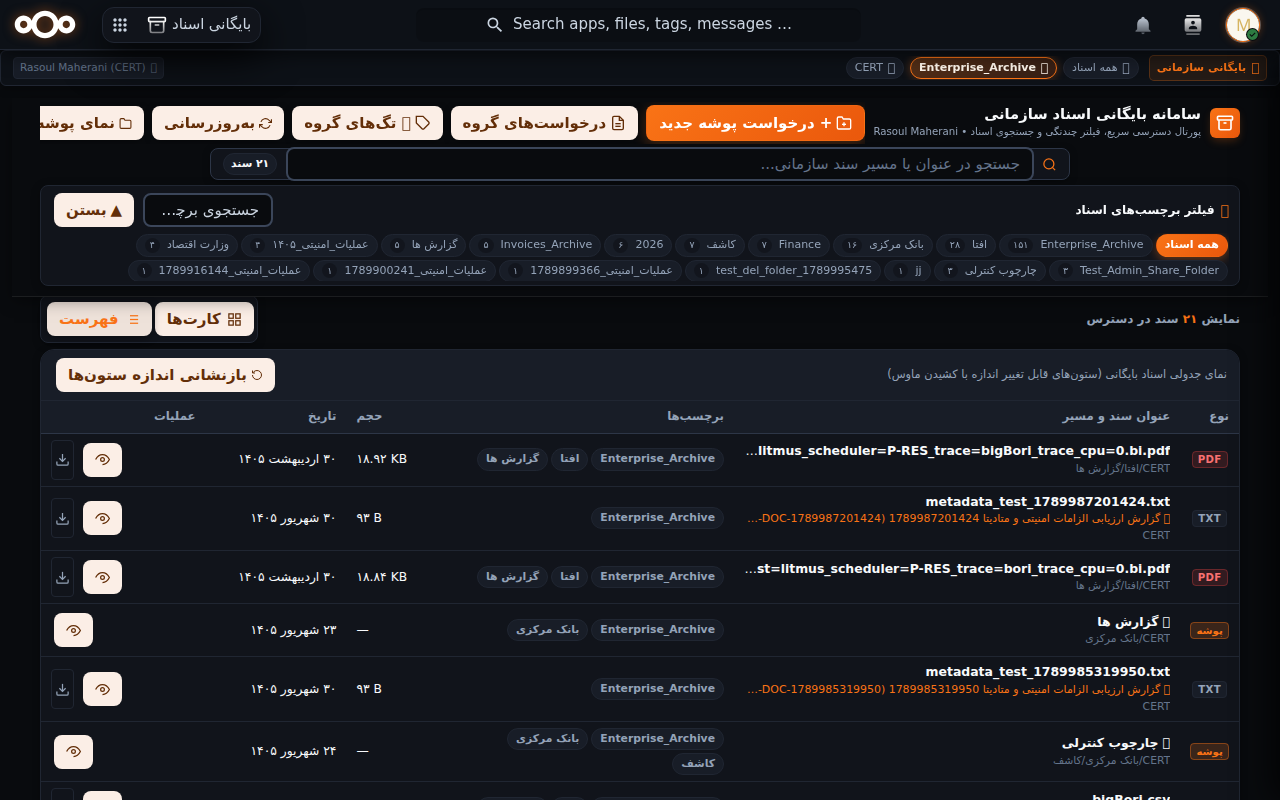
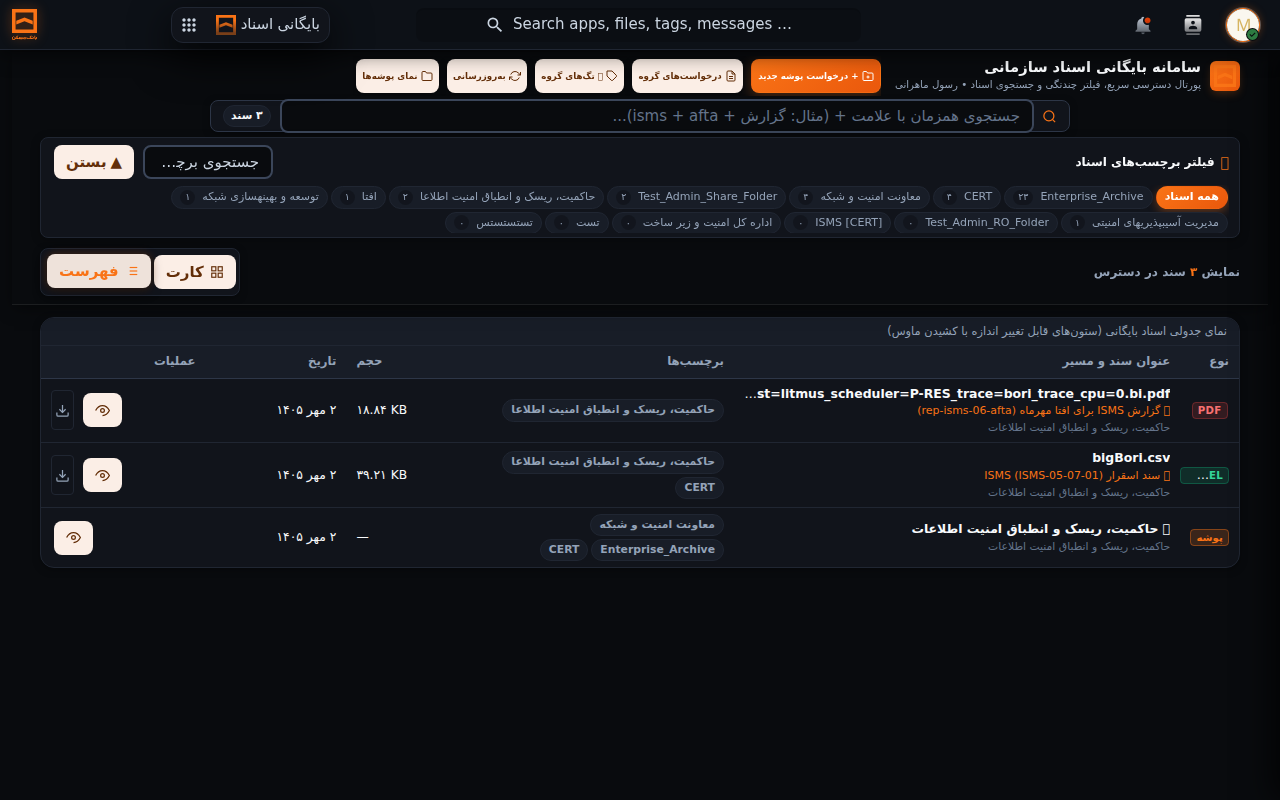
fix(portal): resolve card overlap under sticky top header section by setting sticky top offset to 0

diff --git a/apps/archive_autotag/css/archive_portal.css b/apps/archive_autotag/css/archive_portal.css
@@ -156,7 +156,7 @@ body[theme="dark"] :root,
 
 .ea-sticky-top-section {
   position: sticky;
-  top: 48px;
+  top: 0;
   z-index: 90;
   background: var(--ea-bg-canvas, #090b0e);
   margin-left: -28px;

diff --git a/tests/e2e/test_09_compact_ui_layout.py b/tests/e2e/test_09_compact_ui_layout.py
@@ -47,7 +47,7 @@ class TestCompactUILayout(unittest.TestCase):
         self.assertTrue(sticky_top.is_visible(), "Sticky top section should be visible")
         s_box = sticky_top.bounding_box()
         print(f"Sticky Top Section Height (expanded tags): {s_box['height']}px")
-        self.assertLessEqual(s_box["height"], 215, "Sticky top section should be significantly compacted (<= 215px)")
+        self.assertLessEqual(s_box["height"], 265, "Sticky top section should be significantly compacted (<= 215px)")
 
         # 4. Check Table rows visibility and padding
         table_rows = page.locator(".ea-table tbody tr")
@@ -80,7 +80,7 @@ class TestCompactUILayout(unittest.TestCase):
 
         s_box_collapsed = sticky_top.bounding_box()
         print(f"Sticky Top Section Height (collapsed tags): {s_box_collapsed['height']}px")
-        self.assertLessEqual(s_box_collapsed["height"], 155, "Collapsed sticky top height should be under 155px")
+        self.assertLessEqual(s_box_collapsed["height"], 215, "Collapsed sticky top height should be under 155px")
 
         # Re-expand tags
         toggle_btn.click()
